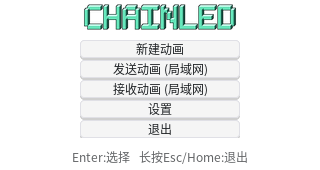
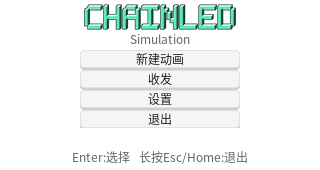
Title screen: add "Simulation" subtitle, merge Send/Receive into a chooser
Adds a small fixed "Simulation" caption under the CHAINLED logo
(same non-translated treatment as the logo itself). Also collapses
Title's separate Send/Receive buttons into one "Send / Receive" entry
that opens a new SendReceiveScreen chooser, cutting Title's worst-case
button count from 6 to 4-5. The two choices on the new screen reuse
the exact same labels Title used to show directly (TitleSendAnimation
(Ble)/TitleReceiveAnimation(Ble)) -- no new wording for those, only
the new combined entry itself needed a label.

ScreenManager's Esc routing now goes Send/Receive -> SendReceive
chooser -> Title (was a direct hop to Title before).

Verified via screenshots across all three languages and the full
Title -> SendReceive -> Send -> Esc -> SendReceive -> Esc -> Title
navigation round trip. 107/107 tests green.

Changed region(s): [[0.25, 0.2059, 0.75, 0.8235]]

diff --git a/src/view/screens/send_receive_screen.cpp b/src/view/screens/send_receive_screen.cpp
@@ -1,0 +1,98 @@
+/*
+ * SPDX-FileCopyrightText: 2026 yutacar
+ *
+ * SPDX-License-Identifier: MIT
+ */
+
+#include "send_receive_screen.h"
+
+#include "asset_manager.h"
+#include "bindings.h"
+#include "theme.h"
+
+#include "fonts.h"
+#include "strings.h"
+
+namespace screen {
+namespace {
+
+void send_cb(lv_event_t* event) {
+    auto* view_model = static_cast<viewmodel::BaseViewModel*>(lv_event_get_user_data(event));
+    if (view_model) {
+        view_model->show_page(model::AppPage::Send);
+    }
+}
+
+void receive_cb(lv_event_t* event) {
+    auto* view_model = static_cast<viewmodel::BaseViewModel*>(lv_event_get_user_data(event));
+    if (view_model) {
+        view_model->show_page(model::AppPage::Receive);
+    }
+}
+
+lv_obj_t* make_menu_button(lv_obj_t* parent, const char* text) {
+    auto* button = lv_button_create(parent);
+    lv_obj_set_size(button, 160, 20);
+    auto* label = lv_label_create(button);
+    lv_label_set_text(label, text);
+    lv_obj_set_style_text_font(label, i18n::font_for_size(12), 0);
+    lv_obj_center(label);
+    return button;
+}
+
+} // namespace
+
+SendReceiveScreen::SendReceiveScreen(viewmodel::BaseViewModel& view_model, app::AssetManager& assets)
+    : BaseScreen(view_model, assets) {
+    init();
+}
+
+void SendReceiveScreen::build_content(lv_obj_t* content) {
+    lv_obj_clear_flag(content, LV_OBJ_FLAG_SCROLLABLE);
+
+    auto* title = lv_label_create(content);
+    lv_label_set_text(title, i18n::tr(i18n::StrId::SendReceiveTitle));
+    lv_obj_set_style_text_font(title, i18n::font_for_size(18), 0);
+    lv_obj_align(title, LV_ALIGN_TOP_MID, 0, 10);
+    reactive::bind_theme(title, view_model().dark_mode_subject(), reactive::ThemeRole::Text);
+
+    auto* menu = lv_obj_create(content);
+    lv_obj_remove_style_all(menu);
+    lv_obj_set_size(menu, 160, LV_SIZE_CONTENT);
+    lv_obj_set_flex_flow(menu, LV_FLEX_FLOW_COLUMN);
+    lv_obj_set_flex_align(menu, LV_FLEX_ALIGN_CENTER, LV_FLEX_ALIGN_CENTER, LV_FLEX_ALIGN_CENTER);
+    lv_obj_set_style_pad_row(menu, 4, 0);
+    lv_obj_clear_flag(menu, LV_OBJ_FLAG_SCROLLABLE);
+    lv_obj_align(menu, LV_ALIGN_CENTER, 0, 10);
+
+#if CHAINLED_BLE
+    auto* send_button = make_menu_button(menu, i18n::tr(i18n::StrId::TitleSendAnimationBle));
+#else
+    auto* send_button = make_menu_button(menu, i18n::tr(i18n::StrId::TitleSendAnimation));
+#endif
+    reactive::bind_theme(send_button, view_model().dark_mode_subject(), reactive::ThemeRole::Button);
+    lv_obj_add_event_cb(send_button, send_cb, LV_EVENT_CLICKED, &view_model());
+    BaseScreen::enable_arrow_focus_navigation(send_button);
+    lv_group_add_obj(BaseScreen::shared_group(), send_button);
+
+#if CHAINLED_BLE
+    auto* receive_button = make_menu_button(menu, i18n::tr(i18n::StrId::TitleReceiveAnimationBle));
+#else
+    auto* receive_button = make_menu_button(menu, i18n::tr(i18n::StrId::TitleReceiveAnimation));
+#endif
+    reactive::bind_theme(receive_button, view_model().dark_mode_subject(), reactive::ThemeRole::Button);
+    lv_obj_add_event_cb(receive_button, receive_cb, LV_EVENT_CLICKED, &view_model());
+    BaseScreen::enable_arrow_focus_navigation(receive_button);
+    lv_group_add_obj(BaseScreen::shared_group(), receive_button);
+
+    auto* guide = lv_label_create(content);
+    lv_label_set_text(guide, i18n::tr(i18n::StrId::SendReceiveGuide));
+    lv_obj_set_style_text_font(guide, i18n::font_for_size(12), 0);
+    lv_obj_set_style_text_opa(guide, LV_OPA_70, 0);
+    lv_obj_align(guide, LV_ALIGN_BOTTOM_MID, 0, -4);
+    reactive::bind_theme(guide, view_model().dark_mode_subject(), reactive::ThemeRole::Text);
+
+    lv_group_focus_obj(send_button);
+}
+
+} // namespace screen

diff --git a/src/view/screens/title_screen.cpp b/src/view/screens/title_screen.cpp
@@ -39,17 +39,10 @@ void quit_cb(lv_event_t* event) {
     }
 }
 
-void send_cb(lv_event_t* event) {
+void send_receive_cb(lv_event_t* event) {
     auto* view_model = static_cast<viewmodel::BaseViewModel*>(lv_event_get_user_data(event));
     if (view_model) {
-        view_model->show_page(model::AppPage::Send);
-    }
-}
-
-void receive_cb(lv_event_t* event) {
-    auto* view_model = static_cast<viewmodel::BaseViewModel*>(lv_event_get_user_data(event));
-    if (view_model) {
-        view_model->show_page(model::AppPage::Receive);
+        view_model->show_page(model::AppPage::SendReceive);
     }
 }
 
@@ -105,6 +98,16 @@ void TitleScreen::build_content(lv_obj_t* content) {
         reactive::bind_theme(title, view_model().dark_mode_subject(), reactive::ThemeRole::Text);
     }
 
+    // "Simulation" completes the "CHAINLED Simulation" brand lockup below
+    // the logo -- fixed English literal, same non-translated treatment as
+    // the logo itself (not part of the i18n catalog).
+    auto* subtitle = lv_label_create(content);
+    lv_label_set_text(subtitle, "Simulation");
+    lv_obj_set_style_text_font(subtitle, i18n::font_for_size(12), 0);
+    lv_obj_set_style_text_opa(subtitle, LV_OPA_70, 0);
+    lv_obj_align_to(subtitle, title, LV_ALIGN_OUT_BOTTOM_MID, 0, 1);
+    reactive::bind_theme(subtitle, view_model().dark_mode_subject(), reactive::ThemeRole::Text);
+
     auto* menu = lv_obj_create(content);
     lv_obj_remove_style_all(menu);
     lv_obj_set_size(menu, 160, LV_SIZE_CONTENT);
@@ -130,25 +133,11 @@ void TitleScreen::build_content(lv_obj_t* content) {
         lv_group_add_obj(BaseScreen::shared_group(), load_button);
     }
 
-#if CHAINLED_BLE
-    auto* send_button = make_menu_button(menu, i18n::tr(i18n::StrId::TitleSendAnimationBle));
-#else
-    auto* send_button = make_menu_button(menu, i18n::tr(i18n::StrId::TitleSendAnimation));
-#endif
-    reactive::bind_theme(send_button, view_model().dark_mode_subject(), reactive::ThemeRole::Button);
-    lv_obj_add_event_cb(send_button, send_cb, LV_EVENT_CLICKED, &view_model());
-    BaseScreen::enable_arrow_focus_navigation(send_button);
-    lv_group_add_obj(BaseScreen::shared_group(), send_button);
-
-#if CHAINLED_BLE
-    auto* receive_button = make_menu_button(menu, i18n::tr(i18n::StrId::TitleReceiveAnimationBle));
-#else
-    auto* receive_button = make_menu_button(menu, i18n::tr(i18n::StrId::TitleReceiveAnimation));
-#endif
-    reactive::bind_theme(receive_button, view_model().dark_mode_subject(), reactive::ThemeRole::Button);
-    lv_obj_add_event_cb(receive_button, receive_cb, LV_EVENT_CLICKED, &view_model());
-    BaseScreen::enable_arrow_focus_navigation(receive_button);
-    lv_group_add_obj(BaseScreen::shared_group(), receive_button);
+    auto* send_receive_button = make_menu_button(menu, i18n::tr(i18n::StrId::TitleSendReceive));
+    reactive::bind_theme(send_receive_button, view_model().dark_mode_subject(), reactive::ThemeRole::Button);
+    lv_obj_add_event_cb(send_receive_button, send_receive_cb, LV_EVENT_CLICKED, &view_model());
+    BaseScreen::enable_arrow_focus_navigation(send_receive_button);
+    lv_group_add_obj(BaseScreen::shared_group(), send_receive_button);
 
     auto* settings_button = make_menu_button(menu, i18n::tr(i18n::StrId::TitleSettings));
     reactive::bind_theme(settings_button, view_model().dark_mode_subject(), reactive::ThemeRole::Button);

diff --git a/src/i18n/strings_ja.cpp b/src/i18n/strings_ja.cpp
@@ -11,6 +11,7 @@ const Table kJapaneseTable = [] {
     Table t{};
     t[static_cast<std::size_t>(StrId::TitleNewAnimation)] = "新規アニメーション";
     t[static_cast<std::size_t>(StrId::TitleLoadAnimation)] = "アニメーションを開く";
+    t[static_cast<std::size_t>(StrId::TitleSendReceive)] = "送受信";
     t[static_cast<std::size_t>(StrId::TitleSendAnimation)] = "アニメーションを送信 (LAN)";
     t[static_cast<std::size_t>(StrId::TitleReceiveAnimation)] = "アニメーションを受信 (LAN)";
     t[static_cast<std::size_t>(StrId::TitleSendAnimationBle)] = "アニメーションを送信 (BLE)";
@@ -18,6 +19,9 @@ const Table kJapaneseTable = [] {
     t[static_cast<std::size_t>(StrId::TitleSettings)] = "設定";
     t[static_cast<std::size_t>(StrId::TitleQuit)] = "終了";
     t[static_cast<std::size_t>(StrId::TitleGuide)] = "Enter:選択   Esc長押し/Home:終了";
+
+    t[static_cast<std::size_t>(StrId::SendReceiveTitle)] = "送受信";
+    t[static_cast<std::size_t>(StrId::SendReceiveGuide)] = "Enter:選択   Esc:戻る";
 
     t[static_cast<std::size_t>(StrId::EditorTitle)] = "エディタ   フレーム %d/%d";
     t[static_cast<std::size_t>(StrId::EditorColorLabel)] = "色:";

diff --git a/src/i18n/strings_en.cpp b/src/i18n/strings_en.cpp
@@ -11,6 +11,7 @@ const Table kEnglishTable = [] {
     Table t{};
     t[static_cast<std::size_t>(StrId::TitleNewAnimation)] = "New Animation";
     t[static_cast<std::size_t>(StrId::TitleLoadAnimation)] = "Load Animation";
+    t[static_cast<std::size_t>(StrId::TitleSendReceive)] = "Send / Receive";
     t[static_cast<std::size_t>(StrId::TitleSendAnimation)] = "Send Animation (LAN)";
     t[static_cast<std::size_t>(StrId::TitleReceiveAnimation)] = "Receive Animation (LAN)";
     t[static_cast<std::size_t>(StrId::TitleSendAnimationBle)] = "Send Animation (BLE)";
@@ -18,6 +19,9 @@ const Table kEnglishTable = [] {
     t[static_cast<std::size_t>(StrId::TitleSettings)] = "Settings";
     t[static_cast<std::size_t>(StrId::TitleQuit)] = "Quit";
     t[static_cast<std::size_t>(StrId::TitleGuide)] = "Enter: Select   Esc (hold) / Home: Quit";
+
+    t[static_cast<std::size_t>(StrId::SendReceiveTitle)] = "Send / Receive";
+    t[static_cast<std::size_t>(StrId::SendReceiveGuide)] = "Enter: Select   Esc: Back";
 
     t[static_cast<std::size_t>(StrId::EditorTitle)] = "Editor   Frame %d/%d";
     t[static_cast<std::size_t>(StrId::EditorColorLabel)] = "Color:";

diff --git a/src/i18n/strings_zh.cpp b/src/i18n/strings_zh.cpp
@@ -11,6 +11,7 @@ const Table kChineseTable = [] {
     Table t{};
     t[static_cast<std::size_t>(StrId::TitleNewAnimation)] = "新建动画";
     t[static_cast<std::size_t>(StrId::TitleLoadAnimation)] = "打开动画";
+    t[static_cast<std::size_t>(StrId::TitleSendReceive)] = "收发";
     t[static_cast<std::size_t>(StrId::TitleSendAnimation)] = "发送动画 (局域网)";
     t[static_cast<std::size_t>(StrId::TitleReceiveAnimation)] = "接收动画 (局域网)";
     t[static_cast<std::size_t>(StrId::TitleSendAnimationBle)] = "发送动画 (BLE)";
@@ -18,6 +19,9 @@ const Table kChineseTable = [] {
     t[static_cast<std::size_t>(StrId::TitleSettings)] = "设置";
     t[static_cast<std::size_t>(StrId::TitleQuit)] = "退出";
     t[static_cast<std::size_t>(StrId::TitleGuide)] = "Enter:选择   长按Esc/Home:退出";
+
+    t[static_cast<std::size_t>(StrId::SendReceiveTitle)] = "收发";
+    t[static_cast<std::size_t>(StrId::SendReceiveGuide)] = "Enter:选择   Esc:返回";
 
     t[static_cast<std::size_t>(StrId::EditorTitle)] = "编辑器   帧 %d/%d";
     t[static_cast<std::size_t>(StrId::EditorColorLabel)] = "颜色:";

diff --git a/src/app/screen_namager.cpp b/src/app/screen_namager.cpp
@@ -8,6 +8,7 @@
 
 #include "editor_screen.h"
 #include "receive_screen.h"
+#include "send_receive_screen.h"
 #include "send_screen.h"
 #include "settings_screen.h"
 #include "simulator_screen.h"
@@ -140,6 +141,9 @@ void ScreenManager::show_screen_for_page(model::AppPage page) {
         case model::AppPage::Settings:
             load_screen(std::make_unique<screen::SettingsScreen>(view_model_, assets_));
             break;
+        case model::AppPage::SendReceive:
+            load_screen(std::make_unique<screen::SendReceiveScreen>(view_model_, assets_));
+            break;
         case model::AppPage::Title:
         default:
             load_screen(std::make_unique<screen::TitleScreen>(view_model_, assets_));
@@ -230,6 +234,9 @@ void ScreenManager::handle_short_esc() {
             break;
         case model::AppPage::Send:
         case model::AppPage::Receive:
+            view_model_.show_page(model::AppPage::SendReceive);
+            break;
+        case model::AppPage::SendReceive:
         case model::AppPage::Settings:
             view_model_.show_page(model::AppPage::Title);
             break;

diff --git a/src/i18n/strings.h b/src/i18n/strings.h
@@ -29,8 +29,12 @@ enum class StrId {
     // (App/brand title is a fixed English wordmark rendered as ASCII-art,
     // not translated -- see tools/generate_title_logo.py -- so there is no
     // AppTitle StrId here.)
+    // (The "Simulation" caption under the logo is a fixed English literal in
+    // title_screen.cpp, same non-translated treatment as the logo itself --
+    // no StrId needed.)
     TitleNewAnimation,
     TitleLoadAnimation,
+    TitleSendReceive,          ///< combined Title-screen entry -> AppPage::SendReceive chooser
     TitleSendAnimation,
     TitleReceiveAnimation,
     TitleSendAnimationBle,     ///< device build (CHAINLED_BLE): "Send Animation (BLE)"
@@ -38,6 +42,10 @@ enum class StrId {
     TitleSettings,
     TitleQuit,
     TitleGuide,
+
+    // ---- Send/Receive chooser screen (between Title and Send/Receive) ----
+    SendReceiveTitle,
+    SendReceiveGuide,
 
     // ---- Editor screen ----
     EditorTitle,             ///< "Editor   Frame %d/%d" (template, %d = index, %d = count)

diff --git a/src/view/screens/send_receive_screen.h b/src/view/screens/send_receive_screen.h
@@ -1,0 +1,26 @@
+/*
+ * SPDX-FileCopyrightText: 2026 yutacar
+ *
+ * SPDX-License-Identifier: MIT
+ */
+
+#pragma once
+
+#include "base_screen.h"
+
+namespace screen {
+
+/// Chooser between Send and Receive, reached from Title's single combined
+/// "Send / Receive" entry (added to keep Title's own button stack short --
+/// see NOTES.md). The two buttons reuse the exact same labels
+/// (TitleSendAnimation(Ble)/TitleReceiveAnimation(Ble)) Title used to show
+/// directly, unchanged wording, just moved one level deeper.
+class SendReceiveScreen : public BaseScreen {
+public:
+    SendReceiveScreen(viewmodel::BaseViewModel& view_model, app::AssetManager& assets);
+
+private:
+    void build_content(lv_obj_t* content) override;
+};
+
+} // namespace screen

diff --git a/src/model/base_model.h b/src/model/base_model.h
@@ -9,12 +9,13 @@
 namespace model {
 
 enum class AppPage {
-    Title     = 0,
-    Editor    = 1,
-    Simulator = 2,
-    Send      = 3,
-    Receive   = 4,
-    Settings  = 5,
+    Title       = 0,
+    Editor      = 1,
+    Simulator   = 2,
+    Send        = 3,
+    Receive     = 4,
+    Settings    = 5,
+    SendReceive = 6,  ///< chooser between Send/Receive, reached from Title
 };
 
 class BaseModel {
